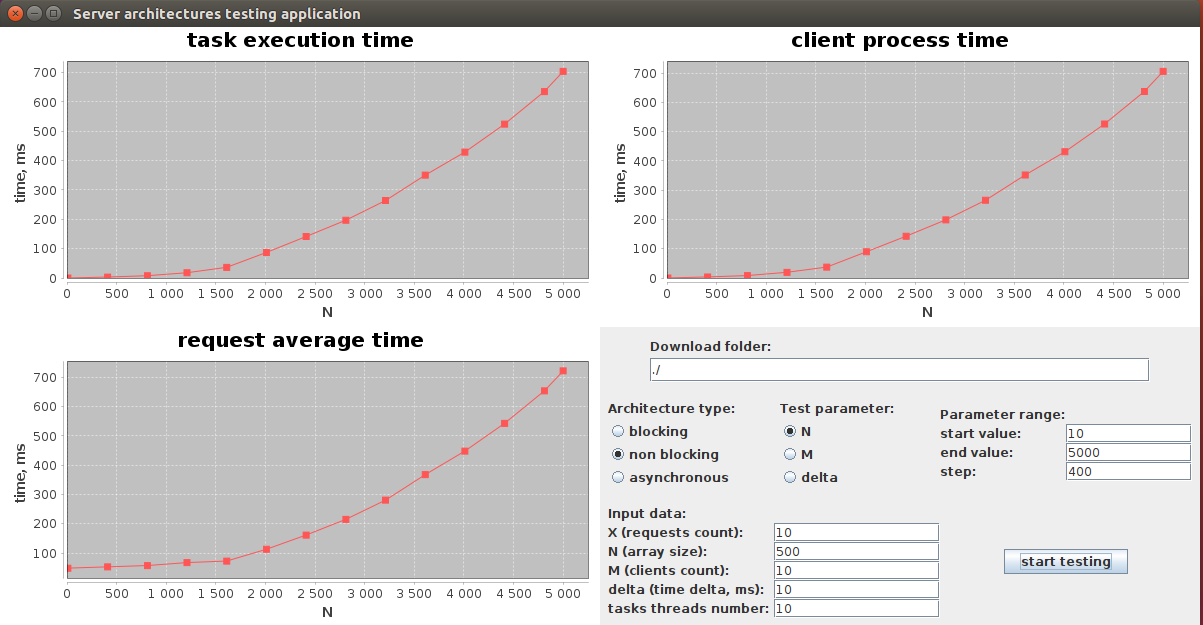
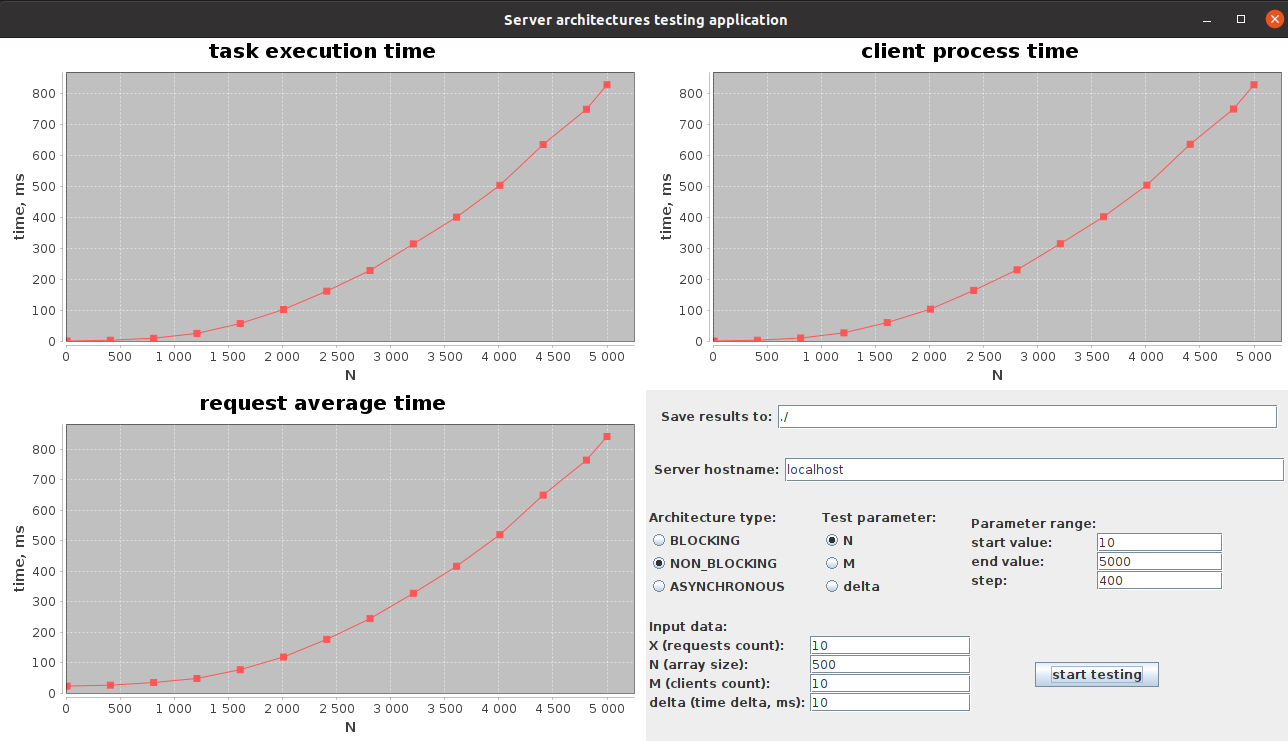
updates for README.md

diff --git a/README.md b/README.md
@@ -1,19 +1,52 @@
 # Server architectures testing application
 
 This application allows you to test different server architectures for different parameters such as clients count, task
-size, requests count, time between requests.
+size, time between requests.
 
-It measures the following characteristics:
+## Description
+
+The essence of the interaction between clients and the server 
+in this application is that the clients ask the server to sort an array 
+of size `N` (by bubble sort) and receive a sorted array in response.
+
+`M` clients start and send `X` requests with an interval of `delta` milliseconds between 
+receiving a response from the server and a new request,
+wait for the results and close the connection.
+
+Three types of servers are implemented to process requests from clients:
+
+1. `BLOCKING` - create two threads for each client: for reading and for writing,
+reading and writing occur in blocking mode
+2. `NON_BLOCKING` - create only two threads for reading and writing,
+reading and writing occur in non-blocking mode (implemented using java.nio.channels.Selector)
+3. `ASYNCHRONOUS` - any interaction with the client occurs in asynchronous mode,
+handlers (java.nio.channels.CompletionHandler) are executed in a fixed-size thread pool
+
+Tasks from clients are executed in a shared fixed-size thread pool.
+
+Other options:
+
+* `tasks_threads_number` - the number of threads in the common 
+thread pool in which tasks (sorting) from the client are executed;
+this parameter is set at server startup, default value is 10
+* you can specify a directory name for writing test results,
+default value is the current directory name
+* you can also specify the hostname, default value is `localhost`
+
+Measured characteristics:
 
 `task execution time` - sort time on the server
 
 `client process time` - time between receive request from a client and send response him
 
-`request average time` - average time between send request and receive response from the server + time delta
+`request average time` - average time between send request and receive response from the server + `delta`
 
 ## How to execute
 
-`./run_application.sh`
+1. start all servers with the command:
+   * `./run_application.sh [tasks_threads_number]` where `tasks_threads_number` is an optional argument with a default value of 10 
+2. run the application:
+   * `./run_application.sh`
 
 ## Example
 
